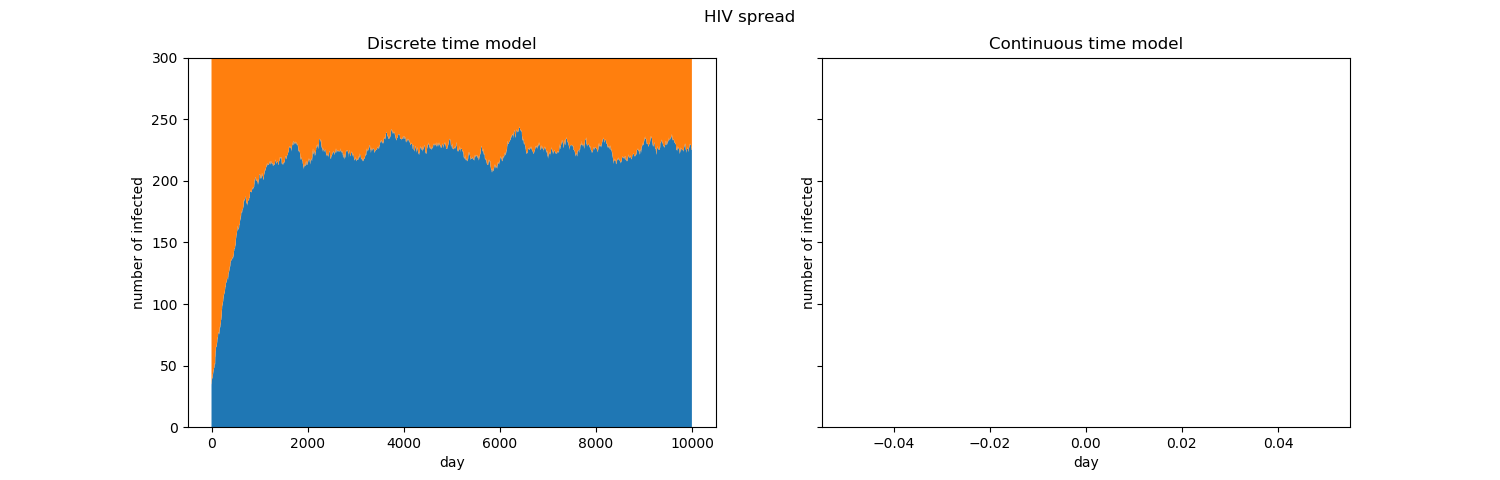
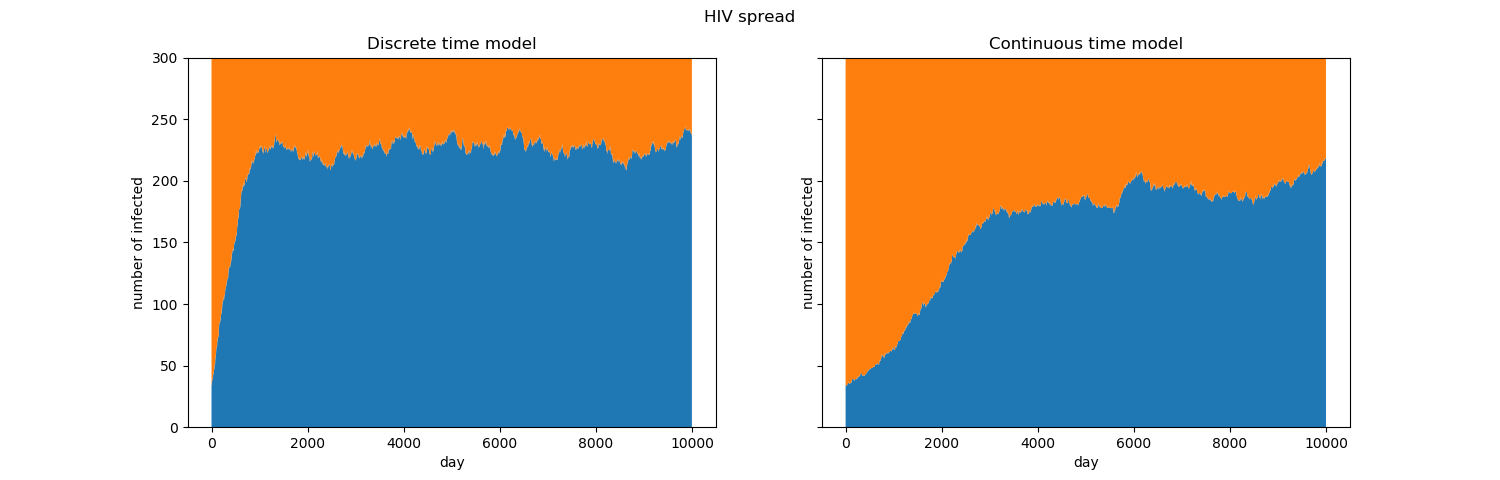
Continuous model done.

Changed region(s): [[0.552, 0.125, 0.92, 0.9375], [0.2453, 0.25, 0.46, 0.3438], [0.1533, 0.2812, 0.2453, 0.4375]]

diff --git a/src/model/continuous_time_model.py b/src/model/continuous_time_model.py
@@ -11,48 +11,143 @@ class ContinuousTimeModel(Model):
     _NAME = "Continuous time model"
 
     POPULATION_GENERATOR_SEED = 47
-    SCREENING_GENERATOR_SEED = 531521
-    SHARING_GENERATOR_SEED = 941753
-    BLEACH_GENERATOR_SEED = 800993
+    GENERATOR_SEED = 531521
 
     PROBABILITY_TO_SAMPLE_INFECTED = 0.1
     SCREENING_RATE = 14.97 / 365 / 100
-    SHARING_RATE = 1.21
-    BLEACH_RATE = 0.14
-    NUMBER_OF_DELTAS = 1000000
+    INJECTION_RATE = 1.21
+    SHARING_PROBABILITY = 0.36
+    SYRINGE_INFECTION_PROBABILITY = 0.18
+    NOT_SYRINGE_INFECTION_PROBABILITY = 1 - SYRINGE_INFECTION_PROBABILITY
+    DRUG_USER_INFECTION_PROBABILITY = 0.0105
+    NOT_DRUG_USER_INFECTION_PROBABILITY = 1 - DRUG_USER_INFECTION_PROBABILITY
+    BLEACH_PROBABILITY = 0.37
+    NOT_BLEACH_PROBABILITY = 1 - BLEACH_PROBABILITY
 
     def __init__(self, number_of_days: int, population_size: int, number_of_syringes: int):
         self.__number_of_days = number_of_days
         self.__population_size = population_size
-        self.__number_of_infected_users, self.__number_of_clean_users = self._divide_population(population_size)
-        self.__number_of_infected_syringes, self.__number_of_clean_syringes = 0, number_of_syringes
-        self.__screening_generator = Random(ContinuousTimeModel.SCREENING_GENERATOR_SEED)
-        self.__sharing_generator = Random(ContinuousTimeModel.SHARING_GENERATOR_SEED)
+        self.__number_of_syringes = number_of_syringes
+        self.__number_of_infected_users = self._infect_population(population_size)
+        self.__number_of_infected_syringes = 0
+        self.__event_generator = Random(ContinuousTimeModel.GENERATOR_SEED)
 
     @staticmethod
-    def _divide_population(population_size) -> Tuple[int, int]:
+    def _infect_population(population_size) -> int:
         user_generator = Random(ContinuousTimeModel.POPULATION_GENERATOR_SEED)
-        number_of_clean = 0
         number_of_infected = 0
         for i in range(population_size):
             if user_generator.random() < ContinuousTimeModel.PROBABILITY_TO_SAMPLE_INFECTED:
                 number_of_infected += 1
-            else:
-                number_of_clean += 1
-        return number_of_infected, number_of_clean
+        return number_of_infected
 
     def run(self) -> Tuple[List[float], List[float], List[float]]:
-        timeline = [0]
-        size = len(timeline)
-        number_of_infected_users = []
-        number_of_clean_users = []
-        for i in range(size):
-            number_of_infected_users.append(50)
-            number_of_clean_users.append(50)
-        return timeline, number_of_infected_users, number_of_clean_users
+        t = 0
+        timeline = [t]
+        numbers_of_infected = [self.get_number_of_infected_users()]
+        numbers_of_clean = [self.get_number_of_clean_users()]
+        rates_calculators = [self.__calculate_rate_1, self.__calculate_rate_2, self.__calculate_rate_3, self.__calculate_rate_4]
+        outcomes = [self.__perform_outcome_1, self.__perform_outcome_2, self.__perform_outcome_3, self.__perform_outcome_4]
+        while t < 10000:
+            delta_times = []
+            for index, rates_calculator in enumerate(rates_calculators):
+                rate = rates_calculator()
+                if rate == 0:
+                    rate = 0.0000000001
+                delta_time = self.__event_generator.expovariate(rate)
+                delta_times.append(delta_time)
+            min_delta_time = min(delta_times)
+            outcome_index = delta_times.index(min_delta_time)
+            outcomes[outcome_index]()
+            t += min_delta_time
+            timeline.append(t)
+            numbers_of_infected.append(self.get_number_of_infected_users())
+            numbers_of_clean.append(self.get_number_of_clean_users())
+        return timeline, numbers_of_infected, numbers_of_clean
+
+    def __calculate_rate_1(self):
+        return self.get_number_of_infected_users() * ContinuousTimeModel.SCREENING_RATE
+
+    def __calculate_rate_2(self):
+        prerate = self.__calculate_prerate()
+        return prerate * self.__calculate_probability_of_state_1() * ContinuousTimeModel.SYRINGE_INFECTION_PROBABILITY
+
+    def __calculate_rate_3(self):
+        prerate = self.__calculate_prerate()
+        return prerate * ContinuousTimeModel.BLEACH_PROBABILITY * (self.__calculate_probability_of_state_2() * ContinuousTimeModel.NOT_SYRINGE_INFECTION_PROBABILITY + self.__calculate_probability_of_state_4())
+
+    def __calculate_rate_4(self):
+        prerate = self.__calculate_prerate()
+        return prerate * ContinuousTimeModel.NOT_BLEACH_PROBABILITY * self.__calculate_probability_of_state_4() * ContinuousTimeModel.DRUG_USER_INFECTION_PROBABILITY
+
+    def __calculate_prerate(self):
+        return self.get_population_size() * ContinuousTimeModel.INJECTION_RATE * ContinuousTimeModel.SHARING_PROBABILITY
+
+    def __calculate_probability_of_user_infected(self):
+        return self.get_number_of_infected_users() / self.get_population_size()
+
+    def __calculate_probability_of_user_not_infected(self):
+        return 1 - self.__calculate_probability_of_user_infected()
+
+    def __calculate_probability_of_syringe_infected(self):
+        return self.get_number_of_infected_syringes() / self.get_number_of_syringes()
+
+    def __calculate_probability_of_syringe_not_infected(self):
+        return 1 - self.__calculate_probability_of_syringe_infected()
+
+    def __calculate_probability_of_state_1(self):
+        return self.__calculate_probability_of_user_infected() * self.__calculate_probability_of_syringe_not_infected()
+
+    def __calculate_probability_of_state_2(self):
+        return self.__calculate_probability_of_user_infected() * self.__calculate_probability_of_syringe_infected()
+
+    def __calculate_probability_of_state_4(self):
+        return self.__calculate_probability_of_user_not_infected() * self.__calculate_probability_of_syringe_infected()
+
+    def __perform_outcome_1(self):
+        self.__decrement_number_of_infected_users()
+
+    def __perform_outcome_2(self):
+        self.__increment_number_of_infected_syringes()
+
+    def __perform_outcome_3(self):
+        self.__decrement_number_of_infected_syringes()
+
+    def __perform_outcome_4(self):
+        self.__increment_number_of_infected_users()
+        self.__decrement_number_of_infected_syringes()
+
+    def __increment_number_of_infected_users(self):
+        self.__number_of_infected_users += 1
+
+    def __decrement_number_of_infected_users(self):
+        if self.get_number_of_infected_users() > 0:
+            self.__number_of_infected_users -= 1
+
+    def __increment_number_of_infected_syringes(self):
+        self.__number_of_infected_syringes += 1
+
+    def __decrement_number_of_infected_syringes(self):
+        if self.get_number_of_infected_syringes() > 0:
+            self.__number_of_infected_syringes -= 1
+
+    def get_number_of_infected_users(self):
+        return self.__number_of_infected_users
+
+    def get_number_of_clean_users(self):
+        return self.get_population_size() - self.get_number_of_infected_users()
+
+    def get_number_of_infected_syringes(self):
+        return self.__number_of_infected_syringes
+
+    def get_number_of_clean_syringes(self):
+        return self.get_number_of_syringes() - self.get_number_of_infected_syringes()
 
     def get_name(self) -> str:
         return self._NAME
 
     def get_population_size(self) -> int:
         return self.__population_size
+
+    def get_number_of_syringes(self) -> int:
+        return self.__number_of_syringes
